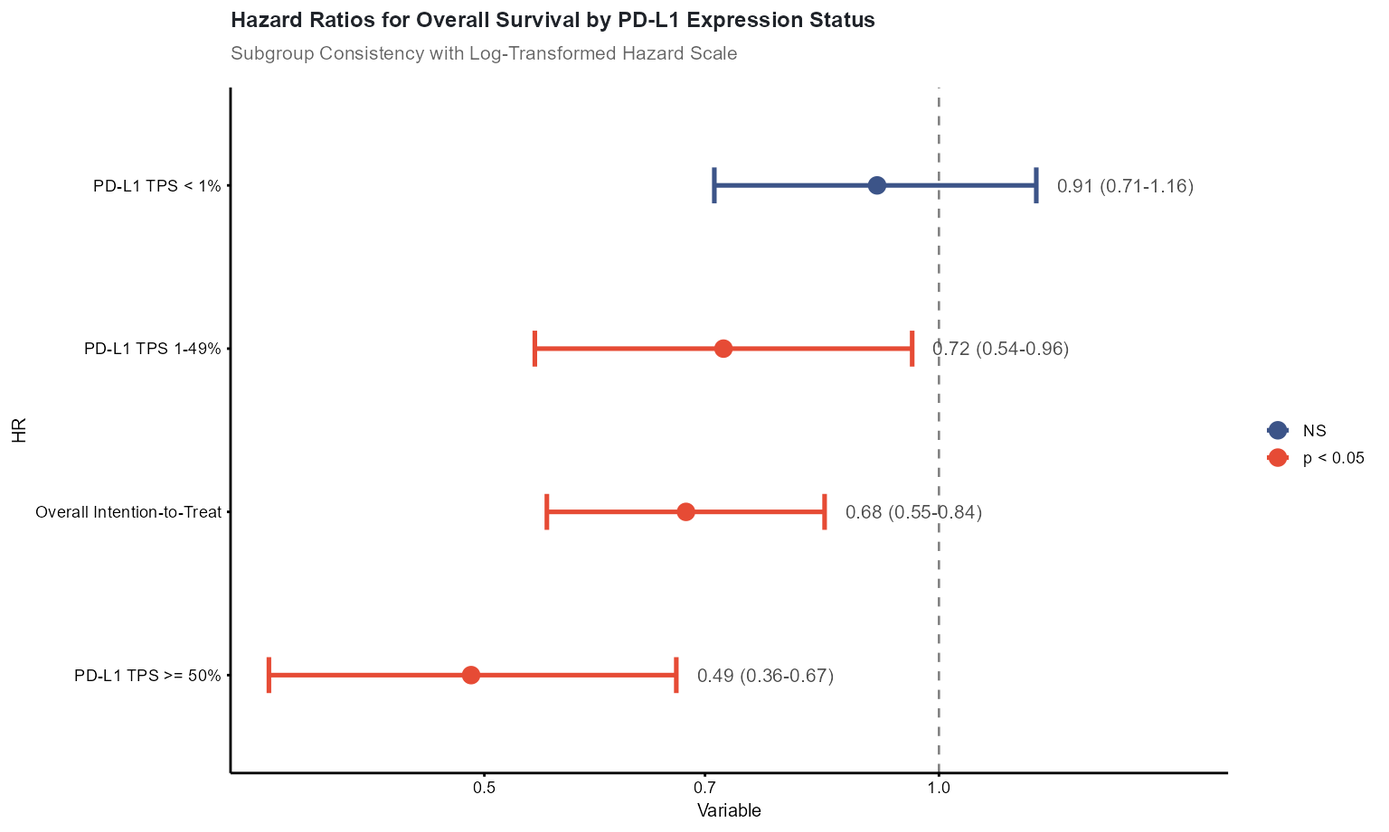
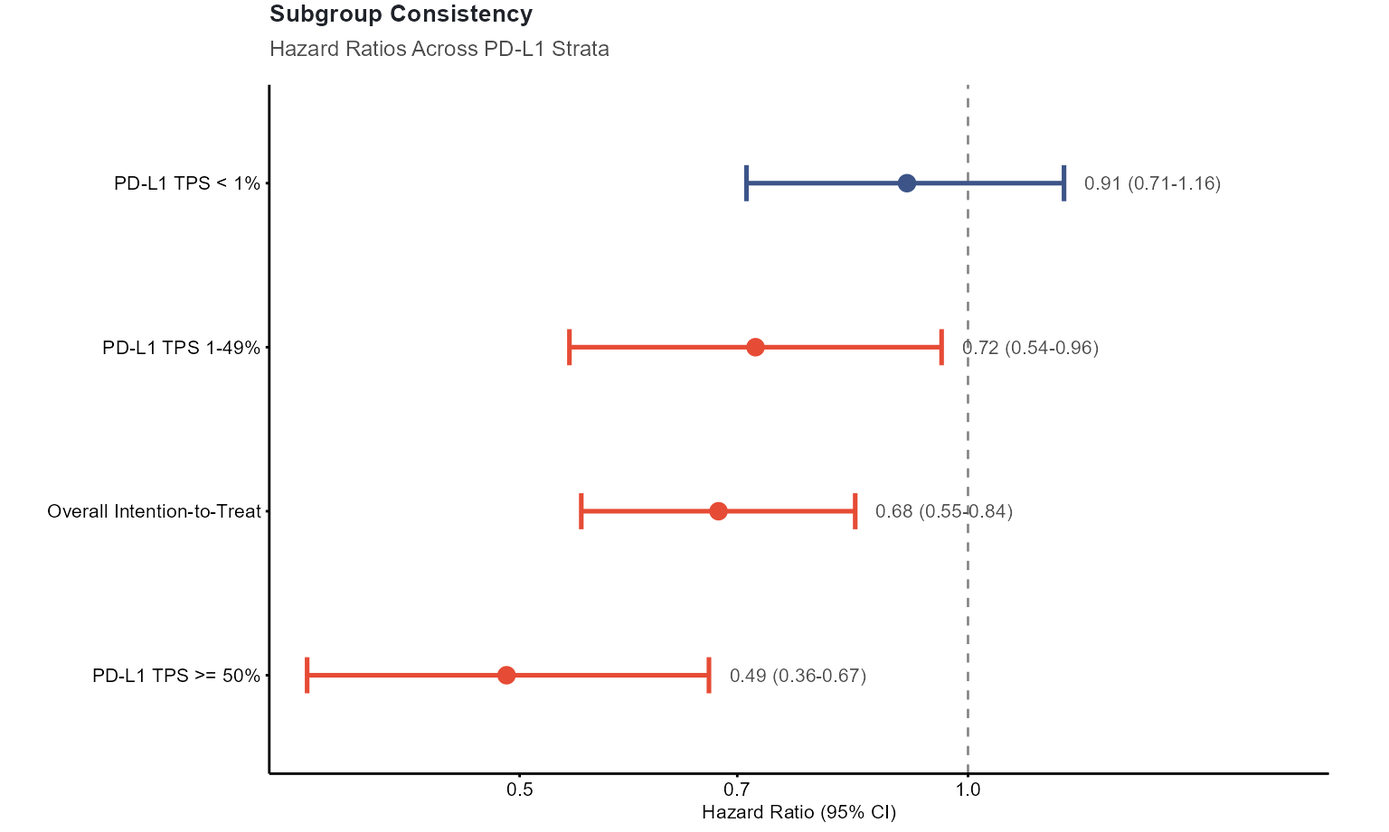
Encapsulate KM risk table and refine forest axis defaults for idiomatic patchwork composites

diff --git a/docs/articles/case-study-cancer-immunotherapy.html b/docs/articles/case-study-cancer-immunotherapy.html
@@ -129,9 +129,8 @@ landmark survival rates at 180 and 365 days:</p>
 <span>    milestones  <span class="op">=</span> <span class="fu"><a href="https://rdrr.io/r/base/c.html" class="external-link">c</a></span><span class="op">(</span><span class="fl">180</span>, <span class="fl">365</span><span class="op">)</span></span>
 <span>  <span class="op">)</span>,</span>
 <span>  palette  <span class="op">=</span> <span class="st">"nature"</span>,</span>
-<span>  title    <span class="op">=</span> <span class="st">"Overall Survival: Immunotherapy Arm vs Control"</span>,</span>
-<span>  subtitle <span class="op">=</span> <span class="st">"Landmark Milestones at 6 Months and 1 Year with Aligned Numbers-at-Risk"</span>,</span>
-<span>  xlab     <span class="op">=</span> <span class="st">"Time on Study (days)"</span>,</span>
+<span>  title    <span class="op">=</span> <span class="st">"Overall Survival"</span>,</span>
+<span>  subtitle <span class="op">=</span> <span class="st">"Landmark Milestones at 6 &amp; 12 Months"</span>,</span>
 <span>  ylab     <span class="op">=</span> <span class="st">"Survival Probability"</span></span>
 <span><span class="op">)</span></span>
 <span><span class="va">p_km</span></span></code></pre></div>
@@ -156,7 +155,7 @@ Proportion Score:
 <span>  P        <span class="op">=</span> <span class="fu"><a href="https://rdrr.io/r/base/c.html" class="external-link">c</a></span><span class="op">(</span><span class="fl">0.0004</span>, <span class="fl">0.0001</span>, <span class="fl">0.024</span>, <span class="fl">0.420</span><span class="op">)</span></span>
 <span><span class="op">)</span></span>
 <span></span>
-<span><span class="fu"><a href="../reference/clitheme.html">clitheme</a></span><span class="op">(</span><span class="st">"science"</span><span class="op">)</span></span>
+<span><span class="fu"><a href="../reference/clitheme.html">clitheme</a></span><span class="op">(</span><span class="st">"nature"</span><span class="op">)</span></span>
 <span></span>
 <span><span class="va">p_forest</span> <span class="op">&lt;-</span> <span class="fu"><a href="../reference/cliplot.html">cliplot</a></span><span class="op">(</span></span>
 <span>  <span class="va">HR</span> <span class="op">~</span> <span class="va">Variable</span>,</span>
@@ -168,9 +167,10 @@ Proportion Score:
 <span>    stripe      <span class="op">=</span> <span class="cn">TRUE</span>,</span>
 <span>    show_values <span class="op">=</span> <span class="cn">TRUE</span></span>
 <span>  <span class="op">)</span>,</span>
-<span>  title    <span class="op">=</span> <span class="st">"Hazard Ratios for Overall Survival by PD-L1 Expression Status"</span>,</span>
-<span>  subtitle <span class="op">=</span> <span class="st">"Subgroup Consistency with Log-Transformed Hazard Scale"</span></span>
-<span><span class="op">)</span></span>
+<span>  title    <span class="op">=</span> <span class="st">"Subgroup Consistency"</span>,</span>
+<span>  subtitle <span class="op">=</span> <span class="st">"Hazard Ratios Across PD-L1 Strata"</span></span>
+<span><span class="op">)</span> <span class="op">+</span></span>
+<span>  <span class="fu"><a href="https://ggplot2.tidyverse.org/reference/theme.html" class="external-link">theme</a></span><span class="op">(</span>legend.position <span class="op">=</span> <span class="st">"none"</span>, plot.margin <span class="op">=</span> <span class="fu"><a href="https://ggplot2.tidyverse.org/reference/element.html" class="external-link">margin</a></span><span class="op">(</span>t <span class="op">=</span> <span class="fl">2</span>, r <span class="op">=</span> <span class="fl">25</span>, b <span class="op">=</span> <span class="fl">4</span>, l <span class="op">=</span> <span class="fl">10</span>, <span class="st">"pt"</span><span class="op">)</span><span class="op">)</span></span>
 <span><span class="va">p_forest</span></span></code></pre></div>
 <p><img src="case-study-cancer-immunotherapy_files/figure-html/io-forest-1.png" class="r-plt" alt="" width="768" style="display: block; margin: auto;"></p>
 <hr>
@@ -191,7 +191,7 @@ change in target lesion sum of diameters from baseline:</p>
 <span>  Change  <span class="op">=</span> <span class="va">changes</span></span>
 <span><span class="op">)</span></span>
 <span></span>
-<span><span class="fu"><a href="../reference/clitheme.html">clitheme</a></span><span class="op">(</span><span class="st">"broadsheet"</span><span class="op">)</span></span>
+<span><span class="fu"><a href="../reference/clitheme.html">clitheme</a></span><span class="op">(</span><span class="st">"nature"</span><span class="op">)</span></span>
 <span></span>
 <span><span class="va">p_wf</span> <span class="op">&lt;-</span> <span class="fu"><a href="../reference/cliplot.html">cliplot</a></span><span class="op">(</span></span>
 <span>  <span class="va">Change</span> <span class="op">~</span> <span class="va">Patient</span>,</span>
@@ -201,10 +201,22 @@ change in target lesion sum of diameters from baseline:</p>
 <span>    response_thresholds <span class="op">=</span> <span class="fu"><a href="https://rdrr.io/r/base/c.html" class="external-link">c</a></span><span class="op">(</span><span class="st">"PD"</span> <span class="op">=</span> <span class="fl">20</span>, <span class="st">"PR"</span> <span class="op">=</span> <span class="op">-</span><span class="fl">30</span><span class="op">)</span>,</span>
 <span>    bar_width           <span class="op">=</span> <span class="fl">0.72</span></span>
 <span>  <span class="op">)</span>,</span>
-<span>  title    <span class="op">=</span> <span class="st">"Best Percentage Change in Target Lesions (RECIST 1.1)"</span>,</span>
-<span>  subtitle <span class="op">=</span> <span class="st">"Dashed lines mark Progressive Disease (+20%) and Partial Response (-30%)"</span></span>
+<span>  title    <span class="op">=</span> <span class="st">"Tumor Burden Response"</span>,</span>
+<span>  subtitle <span class="op">=</span> <span class="st">"RECIST 1.1 Criteria (PD: +20%, PR: -30%)"</span></span>
 <span><span class="op">)</span> <span class="op">+</span></span>
-<span>  <span class="fu"><a href="https://ggplot2.tidyverse.org/reference/theme.html" class="external-link">theme</a></span><span class="op">(</span>axis.text.x <span class="op">=</span> <span class="fu"><a href="https://ggplot2.tidyverse.org/reference/element.html" class="external-link">element_text</a></span><span class="op">(</span>angle <span class="op">=</span> <span class="fl">45</span>, hjust <span class="op">=</span> <span class="fl">1</span>, size <span class="op">=</span> <span class="fl">6.0</span><span class="op">)</span><span class="op">)</span></span>
+<span>  <span class="fu"><a href="https://ggplot2.tidyverse.org/reference/labs.html" class="external-link">labs</a></span><span class="op">(</span></span>
+<span>    x <span class="op">=</span> <span class="st">"Individual Patients (n = 24, ranked by change)"</span>,</span>
+<span>    y <span class="op">=</span> <span class="st">"Best % Change in Target Lesions"</span></span>
+<span>  <span class="op">)</span> <span class="op">+</span></span>
+<span>  <span class="fu"><a href="https://ggplot2.tidyverse.org/reference/theme.html" class="external-link">theme</a></span><span class="op">(</span></span>
+<span>    axis.text.x     <span class="op">=</span> <span class="fu"><a href="https://ggplot2.tidyverse.org/reference/element.html" class="external-link">element_blank</a></span><span class="op">(</span><span class="op">)</span>,</span>
+<span>    axis.ticks.x    <span class="op">=</span> <span class="fu"><a href="https://ggplot2.tidyverse.org/reference/element.html" class="external-link">element_blank</a></span><span class="op">(</span><span class="op">)</span>,</span>
+<span>    legend.position <span class="op">=</span> <span class="st">"bottom"</span>,</span>
+<span>    legend.title    <span class="op">=</span> <span class="fu"><a href="https://ggplot2.tidyverse.org/reference/element.html" class="external-link">element_text</a></span><span class="op">(</span>size <span class="op">=</span> <span class="fl">7</span>, face <span class="op">=</span> <span class="st">"bold"</span><span class="op">)</span>,</span>
+<span>    legend.text     <span class="op">=</span> <span class="fu"><a href="https://ggplot2.tidyverse.org/reference/element.html" class="external-link">element_text</a></span><span class="op">(</span>size <span class="op">=</span> <span class="fl">6.5</span><span class="op">)</span>,</span>
+<span>    legend.key.size <span class="op">=</span> <span class="fu"><a href="https://rdrr.io/r/grid/unit.html" class="external-link">unit</a></span><span class="op">(</span><span class="fl">3</span>, <span class="st">"mm"</span><span class="op">)</span>,</span>
+<span>    plot.margin     <span class="op">=</span> <span class="fu"><a href="https://ggplot2.tidyverse.org/reference/element.html" class="external-link">margin</a></span><span class="op">(</span>t <span class="op">=</span> <span class="fl">6</span>, r <span class="op">=</span> <span class="fl">8</span>, b <span class="op">=</span> <span class="fl">4</span>, l <span class="op">=</span> <span class="fl">4</span>, <span class="st">"pt"</span><span class="op">)</span></span>
+<span>  <span class="op">)</span></span>
 <span></span>
 <span><span class="va">p_wf</span></span></code></pre></div>
 <p><img src="case-study-cancer-immunotherapy_files/figure-html/io-waterfall-1.png" class="r-plt" alt="" width="816" style="display: block; margin: auto;"></p>
@@ -224,7 +236,7 @@ patients actively continuing therapy at data cutoff:</p>
 <span>  Ongoing  <span class="op">=</span> <span class="fu"><a href="https://rdrr.io/r/base/sample.html" class="external-link">sample</a></span><span class="op">(</span><span class="fu"><a href="https://rdrr.io/r/base/c.html" class="external-link">c</a></span><span class="op">(</span><span class="cn">TRUE</span>, <span class="cn">FALSE</span><span class="op">)</span>, <span class="va">n_eval</span>, replace <span class="op">=</span> <span class="cn">TRUE</span>, prob <span class="op">=</span> <span class="fu"><a href="https://rdrr.io/r/base/c.html" class="external-link">c</a></span><span class="op">(</span><span class="fl">0.45</span>, <span class="fl">0.55</span><span class="op">)</span><span class="op">)</span></span>
 <span><span class="op">)</span></span>
 <span></span>
-<span><span class="fu"><a href="../reference/clitheme.html">clitheme</a></span><span class="op">(</span><span class="st">"cell"</span><span class="op">)</span></span>
+<span><span class="fu"><a href="../reference/clitheme.html">clitheme</a></span><span class="op">(</span><span class="st">"nature"</span><span class="op">)</span></span>
 <span></span>
 <span><span class="va">p_swim</span> <span class="op">&lt;-</span> <span class="fu"><a href="../reference/cliplot.html">cliplot</a></span><span class="op">(</span></span>
 <span>  <span class="va">Duration</span> <span class="op">~</span> <span class="va">Patient</span>,</span>
@@ -232,14 +244,22 @@ patients actively continuing therapy at data cutoff:</p>
 <span>  type <span class="op">=</span> <span class="fu"><a href="../reference/type_swimmer.html">type_swimmer</a></span><span class="op">(</span></span>
 <span>    bar_fill      <span class="op">=</span> <span class="st">"BestResp"</span>,</span>
 <span>    ongoing       <span class="op">=</span> <span class="st">"Ongoing"</span>,</span>
-<span>    bar_linewidth <span class="op">=</span> <span class="fl">2.8</span></span>
+<span>    bar_linewidth <span class="op">=</span> <span class="fl">2.6</span></span>
 <span>  <span class="op">)</span>,</span>
 <span>  bar_palette <span class="op">=</span> <span class="st">"jama"</span>,</span>
-<span>  title       <span class="op">=</span> <span class="st">"Treatment Duration and Ongoing Response Kinetics"</span>,</span>
-<span>  subtitle    <span class="op">=</span> <span class="st">"Arrows denote active treatment at database lock"</span>,</span>
+<span>  title       <span class="op">=</span> <span class="st">"Treatment Duration"</span>,</span>
+<span>  subtitle    <span class="op">=</span> <span class="st">"Ongoing Response at Database Cutoff"</span>,</span>
 <span>  ylab        <span class="op">=</span> <span class="st">"Months from Enrollment"</span></span>
 <span><span class="op">)</span> <span class="op">+</span></span>
-<span>  <span class="fu"><a href="https://ggplot2.tidyverse.org/reference/theme.html" class="external-link">theme</a></span><span class="op">(</span>axis.text.y <span class="op">=</span> <span class="fu"><a href="https://ggplot2.tidyverse.org/reference/element.html" class="external-link">element_text</a></span><span class="op">(</span>size <span class="op">=</span> <span class="fl">5.5</span><span class="op">)</span><span class="op">)</span></span>
+<span>  <span class="fu"><a href="https://ggplot2.tidyverse.org/reference/labs.html" class="external-link">labs</a></span><span class="op">(</span>x <span class="op">=</span> <span class="st">"Time on Study (months)"</span>, y <span class="op">=</span> <span class="st">"Patients (n = 24)"</span><span class="op">)</span> <span class="op">+</span></span>
+<span>  <span class="fu"><a href="https://ggplot2.tidyverse.org/reference/theme.html" class="external-link">theme</a></span><span class="op">(</span></span>
+<span>    axis.text.y     <span class="op">=</span> <span class="fu"><a href="https://ggplot2.tidyverse.org/reference/element.html" class="external-link">element_text</a></span><span class="op">(</span>size <span class="op">=</span> <span class="fl">5.2</span><span class="op">)</span>,</span>
+<span>    legend.position <span class="op">=</span> <span class="st">"bottom"</span>,</span>
+<span>    legend.title    <span class="op">=</span> <span class="fu"><a href="https://ggplot2.tidyverse.org/reference/element.html" class="external-link">element_text</a></span><span class="op">(</span>size <span class="op">=</span> <span class="fl">7</span>, face <span class="op">=</span> <span class="st">"bold"</span><span class="op">)</span>,</span>
+<span>    legend.text     <span class="op">=</span> <span class="fu"><a href="https://ggplot2.tidyverse.org/reference/element.html" class="external-link">element_text</a></span><span class="op">(</span>size <span class="op">=</span> <span class="fl">6.5</span><span class="op">)</span>,</span>
+<span>    legend.key.size <span class="op">=</span> <span class="fu"><a href="https://rdrr.io/r/grid/unit.html" class="external-link">unit</a></span><span class="op">(</span><span class="fl">3</span>, <span class="st">"mm"</span><span class="op">)</span>,</span>
+<span>    plot.margin     <span class="op">=</span> <span class="fu"><a href="https://ggplot2.tidyverse.org/reference/element.html" class="external-link">margin</a></span><span class="op">(</span>t <span class="op">=</span> <span class="fl">6</span>, r <span class="op">=</span> <span class="fl">8</span>, b <span class="op">=</span> <span class="fl">4</span>, l <span class="op">=</span> <span class="fl">4</span>, <span class="st">"pt"</span><span class="op">)</span></span>
+<span>  <span class="op">)</span></span>
 <span></span>
 <span><span class="va">p_swim</span></span></code></pre></div>
 <p><img src="case-study-cancer-immunotherapy_files/figure-html/io-swimmer-1.png" class="r-plt" alt="" width="816" style="display: block; margin: auto;"></p>
@@ -251,118 +271,14 @@ patients actively continuing therapy at data cutoff:</p>
 <p>We assemble all four endpoint figures into a publication composite
 using <code>patchwork</code>:</p>
 <div class="sourceCode" id="cb6"><pre class="downlit sourceCode r">
-<code class="sourceCode R"><span><span class="co"># Fine-tune panel components for multi-panel publication grid</span></span>
-<span><span class="va">p_km_plot</span> <span class="op">&lt;-</span> <span class="va">p_km</span><span class="op">[[</span><span class="fl">1</span><span class="op">]</span><span class="op">]</span> <span class="op">+</span></span>
-<span>  <span class="fu"><a href="https://ggplot2.tidyverse.org/reference/labs.html" class="external-link">labs</a></span><span class="op">(</span></span>
-<span>    title    <span class="op">=</span> <span class="st">"Overall Survival"</span>,</span>
-<span>    subtitle <span class="op">=</span> <span class="st">"Landmark Milestones at 6 &amp; 12 Months"</span>,</span>
-<span>    x        <span class="op">=</span> <span class="cn">NULL</span></span>
-<span>  <span class="op">)</span> <span class="op">+</span></span>
-<span>  <span class="fu"><a href="https://ggplot2.tidyverse.org/reference/theme.html" class="external-link">theme</a></span><span class="op">(</span></span>
-<span>    plot.title        <span class="op">=</span> <span class="fu"><a href="https://ggplot2.tidyverse.org/reference/element.html" class="external-link">element_text</a></span><span class="op">(</span>size <span class="op">=</span> <span class="fl">8.5</span>, face <span class="op">=</span> <span class="st">"bold"</span><span class="op">)</span>,</span>
-<span>    plot.subtitle     <span class="op">=</span> <span class="fu"><a href="https://ggplot2.tidyverse.org/reference/element.html" class="external-link">element_text</a></span><span class="op">(</span>size <span class="op">=</span> <span class="fl">7.0</span>, color <span class="op">=</span> <span class="st">"grey30"</span><span class="op">)</span>,</span>
-<span>    axis.title        <span class="op">=</span> <span class="fu"><a href="https://ggplot2.tidyverse.org/reference/element.html" class="external-link">element_text</a></span><span class="op">(</span>size <span class="op">=</span> <span class="fl">7.5</span><span class="op">)</span>,</span>
-<span>    axis.text         <span class="op">=</span> <span class="fu"><a href="https://ggplot2.tidyverse.org/reference/element.html" class="external-link">element_text</a></span><span class="op">(</span>size <span class="op">=</span> <span class="fl">6.5</span><span class="op">)</span>,</span>
-<span>    legend.position   <span class="op">=</span> <span class="fu"><a href="https://rdrr.io/r/base/c.html" class="external-link">c</a></span><span class="op">(</span><span class="fl">0.85</span>, <span class="fl">0.82</span><span class="op">)</span>,</span>
-<span>    legend.background <span class="op">=</span> <span class="fu"><a href="https://ggplot2.tidyverse.org/reference/element.html" class="external-link">element_blank</a></span><span class="op">(</span><span class="op">)</span>,</span>
-<span>    legend.title      <span class="op">=</span> <span class="fu"><a href="https://ggplot2.tidyverse.org/reference/element.html" class="external-link">element_blank</a></span><span class="op">(</span><span class="op">)</span>,</span>
-<span>    legend.text       <span class="op">=</span> <span class="fu"><a href="https://ggplot2.tidyverse.org/reference/element.html" class="external-link">element_text</a></span><span class="op">(</span>size <span class="op">=</span> <span class="fl">6.5</span><span class="op">)</span>,</span>
-<span>    axis.text.x       <span class="op">=</span> <span class="fu"><a href="https://ggplot2.tidyverse.org/reference/element.html" class="external-link">element_blank</a></span><span class="op">(</span><span class="op">)</span>,</span>
-<span>    plot.margin       <span class="op">=</span> <span class="fu"><a href="https://ggplot2.tidyverse.org/reference/element.html" class="external-link">margin</a></span><span class="op">(</span>t <span class="op">=</span> <span class="fl">2</span>, r <span class="op">=</span> <span class="fl">12</span>, b <span class="op">=</span> <span class="fl">0</span>, l <span class="op">=</span> <span class="fl">5</span>, <span class="st">"pt"</span><span class="op">)</span></span>
-<span>  <span class="op">)</span></span>
+<code class="sourceCode R"><span><span class="kw"><a href="https://rdrr.io/r/base/library.html" class="external-link">library</a></span><span class="op">(</span><span class="va"><a href="https://patchwork.data-imaginist.com" class="external-link">patchwork</a></span><span class="op">)</span></span>
 <span></span>
-<span><span class="va">p_km_table</span> <span class="op">&lt;-</span> <span class="va">p_km</span><span class="op">[[</span><span class="fl">2</span><span class="op">]</span><span class="op">]</span> <span class="op">+</span></span>
-<span>  <span class="fu"><a href="https://ggplot2.tidyverse.org/reference/labs.html" class="external-link">labs</a></span><span class="op">(</span>title <span class="op">=</span> <span class="cn">NULL</span>, subtitle <span class="op">=</span> <span class="cn">NULL</span>, x <span class="op">=</span> <span class="st">"Time on Study (days)"</span>, y <span class="op">=</span> <span class="cn">NULL</span><span class="op">)</span> <span class="op">+</span></span>
-<span>  <span class="fu"><a href="https://ggplot2.tidyverse.org/reference/theme.html" class="external-link">theme</a></span><span class="op">(</span></span>
-<span>    plot.title    <span class="op">=</span> <span class="fu"><a href="https://ggplot2.tidyverse.org/reference/element.html" class="external-link">element_blank</a></span><span class="op">(</span><span class="op">)</span>,</span>
-<span>    plot.subtitle <span class="op">=</span> <span class="fu"><a href="https://ggplot2.tidyverse.org/reference/element.html" class="external-link">element_blank</a></span><span class="op">(</span><span class="op">)</span>,</span>
-<span>    axis.title.y  <span class="op">=</span> <span class="fu"><a href="https://ggplot2.tidyverse.org/reference/element.html" class="external-link">element_blank</a></span><span class="op">(</span><span class="op">)</span>,</span>
-<span>    axis.text.y   <span class="op">=</span> <span class="fu"><a href="https://ggplot2.tidyverse.org/reference/element.html" class="external-link">element_text</a></span><span class="op">(</span>size <span class="op">=</span> <span class="fl">6.5</span>, face <span class="op">=</span> <span class="st">"bold"</span><span class="op">)</span>,</span>
-<span>    axis.text.x   <span class="op">=</span> <span class="fu"><a href="https://ggplot2.tidyverse.org/reference/element.html" class="external-link">element_text</a></span><span class="op">(</span>size <span class="op">=</span> <span class="fl">6.5</span><span class="op">)</span>,</span>
-<span>    axis.title.x  <span class="op">=</span> <span class="fu"><a href="https://ggplot2.tidyverse.org/reference/element.html" class="external-link">element_text</a></span><span class="op">(</span>size <span class="op">=</span> <span class="fl">7.0</span><span class="op">)</span>,</span>
-<span>    plot.margin   <span class="op">=</span> <span class="fu"><a href="https://ggplot2.tidyverse.org/reference/element.html" class="external-link">margin</a></span><span class="op">(</span>t <span class="op">=</span> <span class="op">-</span><span class="fl">2</span>, r <span class="op">=</span> <span class="fl">12</span>, b <span class="op">=</span> <span class="fl">4</span>, l <span class="op">=</span> <span class="fl">5</span>, <span class="st">"pt"</span><span class="op">)</span></span>
-<span>  <span class="op">)</span></span>
-<span></span>
-<span><span class="va">p_forest_comp</span> <span class="op">&lt;-</span> <span class="va">p_forest</span> <span class="op">+</span></span>
-<span>  <span class="fu"><a href="https://ggplot2.tidyverse.org/reference/scale_continuous.html" class="external-link">scale_x_log10</a></span><span class="op">(</span>expand <span class="op">=</span> <span class="fu"><a href="https://ggplot2.tidyverse.org/reference/expansion.html" class="external-link">expansion</a></span><span class="op">(</span>mult <span class="op">=</span> <span class="fu"><a href="https://rdrr.io/r/base/c.html" class="external-link">c</a></span><span class="op">(</span><span class="fl">0.05</span>, <span class="fl">0.35</span><span class="op">)</span><span class="op">)</span><span class="op">)</span> <span class="op">+</span></span>
-<span>  <span class="fu"><a href="https://ggplot2.tidyverse.org/reference/coord_cartesian.html" class="external-link">coord_cartesian</a></span><span class="op">(</span>clip <span class="op">=</span> <span class="st">"off"</span><span class="op">)</span> <span class="op">+</span></span>
-<span>  <span class="fu"><a href="https://ggplot2.tidyverse.org/reference/labs.html" class="external-link">labs</a></span><span class="op">(</span></span>
-<span>    title    <span class="op">=</span> <span class="st">"Subgroup Consistency"</span>,</span>
-<span>    subtitle <span class="op">=</span> <span class="st">"Hazard Ratios (95% CI) Across PD-L1 Strata"</span>,</span>
-<span>    x        <span class="op">=</span> <span class="st">"Hazard Ratio (95% CI)"</span>,</span>
-<span>    y        <span class="op">=</span> <span class="cn">NULL</span></span>
-<span>  <span class="op">)</span> <span class="op">+</span></span>
-<span>  <span class="fu"><a href="https://ggplot2.tidyverse.org/reference/theme.html" class="external-link">theme</a></span><span class="op">(</span></span>
-<span>    plot.title      <span class="op">=</span> <span class="fu"><a href="https://ggplot2.tidyverse.org/reference/element.html" class="external-link">element_text</a></span><span class="op">(</span>size <span class="op">=</span> <span class="fl">8.5</span>, face <span class="op">=</span> <span class="st">"bold"</span><span class="op">)</span>,</span>
-<span>    plot.subtitle   <span class="op">=</span> <span class="fu"><a href="https://ggplot2.tidyverse.org/reference/element.html" class="external-link">element_text</a></span><span class="op">(</span>size <span class="op">=</span> <span class="fl">7.0</span>, color <span class="op">=</span> <span class="st">"grey30"</span><span class="op">)</span>,</span>
-<span>    axis.title.y    <span class="op">=</span> <span class="fu"><a href="https://ggplot2.tidyverse.org/reference/element.html" class="external-link">element_blank</a></span><span class="op">(</span><span class="op">)</span>,</span>
-<span>    axis.text.y     <span class="op">=</span> <span class="fu"><a href="https://ggplot2.tidyverse.org/reference/element.html" class="external-link">element_text</a></span><span class="op">(</span>size <span class="op">=</span> <span class="fl">7.0</span>, face <span class="op">=</span> <span class="st">"bold"</span><span class="op">)</span>,</span>
-<span>    axis.text.x     <span class="op">=</span> <span class="fu"><a href="https://ggplot2.tidyverse.org/reference/element.html" class="external-link">element_text</a></span><span class="op">(</span>size <span class="op">=</span> <span class="fl">6.5</span><span class="op">)</span>,</span>
-<span>    axis.title.x    <span class="op">=</span> <span class="fu"><a href="https://ggplot2.tidyverse.org/reference/element.html" class="external-link">element_text</a></span><span class="op">(</span>size <span class="op">=</span> <span class="fl">7.5</span><span class="op">)</span>,</span>
-<span>    legend.position <span class="op">=</span> <span class="st">"none"</span>,</span>
-<span>    plot.margin     <span class="op">=</span> <span class="fu"><a href="https://ggplot2.tidyverse.org/reference/element.html" class="external-link">margin</a></span><span class="op">(</span>t <span class="op">=</span> <span class="fl">2</span>, r <span class="op">=</span> <span class="fl">35</span>, b <span class="op">=</span> <span class="fl">4</span>, l <span class="op">=</span> <span class="fl">10</span>, <span class="st">"pt"</span><span class="op">)</span></span>
-<span>  <span class="op">)</span></span>
-<span></span>
-<span><span class="va">p_wf_comp</span> <span class="op">&lt;-</span> <span class="va">p_wf</span> <span class="op">+</span></span>
-<span>  <span class="fu"><a href="https://ggplot2.tidyverse.org/reference/labs.html" class="external-link">labs</a></span><span class="op">(</span></span>
-<span>    title    <span class="op">=</span> <span class="st">"Tumor Burden Response"</span>,</span>
-<span>    subtitle <span class="op">=</span> <span class="st">"RECIST 1.1 Criteria (PD: +20%, PR: -30%)"</span>,</span>
-<span>    x        <span class="op">=</span> <span class="st">"Individual Patients (n = 24, ranked by change)"</span>,</span>
-<span>    y        <span class="op">=</span> <span class="st">"Best % Change in Target Lesions"</span></span>
-<span>  <span class="op">)</span> <span class="op">+</span></span>
-<span>  <span class="fu"><a href="https://ggplot2.tidyverse.org/reference/theme.html" class="external-link">theme</a></span><span class="op">(</span></span>
-<span>    plot.title      <span class="op">=</span> <span class="fu"><a href="https://ggplot2.tidyverse.org/reference/element.html" class="external-link">element_text</a></span><span class="op">(</span>size <span class="op">=</span> <span class="fl">8.5</span>, face <span class="op">=</span> <span class="st">"bold"</span><span class="op">)</span>,</span>
-<span>    plot.subtitle   <span class="op">=</span> <span class="fu"><a href="https://ggplot2.tidyverse.org/reference/element.html" class="external-link">element_text</a></span><span class="op">(</span>size <span class="op">=</span> <span class="fl">7.0</span>, color <span class="op">=</span> <span class="st">"grey30"</span><span class="op">)</span>,</span>
-<span>    axis.text.x     <span class="op">=</span> <span class="fu"><a href="https://ggplot2.tidyverse.org/reference/element.html" class="external-link">element_blank</a></span><span class="op">(</span><span class="op">)</span>,</span>
-<span>    axis.ticks.x    <span class="op">=</span> <span class="fu"><a href="https://ggplot2.tidyverse.org/reference/element.html" class="external-link">element_blank</a></span><span class="op">(</span><span class="op">)</span>,</span>
-<span>    axis.text.y     <span class="op">=</span> <span class="fu"><a href="https://ggplot2.tidyverse.org/reference/element.html" class="external-link">element_text</a></span><span class="op">(</span>size <span class="op">=</span> <span class="fl">6.5</span><span class="op">)</span>,</span>
-<span>    axis.title      <span class="op">=</span> <span class="fu"><a href="https://ggplot2.tidyverse.org/reference/element.html" class="external-link">element_text</a></span><span class="op">(</span>size <span class="op">=</span> <span class="fl">7.5</span><span class="op">)</span>,</span>
-<span>    legend.position <span class="op">=</span> <span class="st">"bottom"</span>,</span>
-<span>    legend.title    <span class="op">=</span> <span class="fu"><a href="https://ggplot2.tidyverse.org/reference/element.html" class="external-link">element_text</a></span><span class="op">(</span>size <span class="op">=</span> <span class="fl">6.5</span>, face <span class="op">=</span> <span class="st">"bold"</span><span class="op">)</span>,</span>
-<span>    legend.text     <span class="op">=</span> <span class="fu"><a href="https://ggplot2.tidyverse.org/reference/element.html" class="external-link">element_text</a></span><span class="op">(</span>size <span class="op">=</span> <span class="fl">6.0</span><span class="op">)</span>,</span>
-<span>    legend.key.size <span class="op">=</span> <span class="fu"><a href="https://rdrr.io/r/grid/unit.html" class="external-link">unit</a></span><span class="op">(</span><span class="fl">3</span>, <span class="st">"mm"</span><span class="op">)</span>,</span>
-<span>    plot.margin     <span class="op">=</span> <span class="fu"><a href="https://ggplot2.tidyverse.org/reference/element.html" class="external-link">margin</a></span><span class="op">(</span>t <span class="op">=</span> <span class="fl">6</span>, r <span class="op">=</span> <span class="fl">12</span>, b <span class="op">=</span> <span class="fl">5</span>, l <span class="op">=</span> <span class="fl">5</span>, <span class="st">"pt"</span><span class="op">)</span></span>
-<span>  <span class="op">)</span></span>
-<span></span>
-<span><span class="va">p_swim_comp</span> <span class="op">&lt;-</span> <span class="va">p_swim</span> <span class="op">+</span></span>
-<span>  <span class="fu"><a href="https://ggplot2.tidyverse.org/reference/labs.html" class="external-link">labs</a></span><span class="op">(</span></span>
-<span>    title    <span class="op">=</span> <span class="st">"Treatment Duration"</span>,</span>
-<span>    subtitle <span class="op">=</span> <span class="st">"Ongoing Response at Database Cutoff"</span>,</span>
-<span>    x        <span class="op">=</span> <span class="st">"Time on Study (months)"</span>,</span>
-<span>    y        <span class="op">=</span> <span class="st">"Patients (n = 24)"</span></span>
-<span>  <span class="op">)</span> <span class="op">+</span></span>
-<span>  <span class="fu"><a href="https://ggplot2.tidyverse.org/reference/theme.html" class="external-link">theme</a></span><span class="op">(</span></span>
-<span>    plot.title      <span class="op">=</span> <span class="fu"><a href="https://ggplot2.tidyverse.org/reference/element.html" class="external-link">element_text</a></span><span class="op">(</span>size <span class="op">=</span> <span class="fl">8.5</span>, face <span class="op">=</span> <span class="st">"bold"</span><span class="op">)</span>,</span>
-<span>    plot.subtitle   <span class="op">=</span> <span class="fu"><a href="https://ggplot2.tidyverse.org/reference/element.html" class="external-link">element_text</a></span><span class="op">(</span>size <span class="op">=</span> <span class="fl">7.0</span>, color <span class="op">=</span> <span class="st">"grey30"</span><span class="op">)</span>,</span>
-<span>    axis.text.y     <span class="op">=</span> <span class="fu"><a href="https://ggplot2.tidyverse.org/reference/element.html" class="external-link">element_text</a></span><span class="op">(</span>size <span class="op">=</span> <span class="fl">5.2</span><span class="op">)</span>,</span>
-<span>    axis.text.x     <span class="op">=</span> <span class="fu"><a href="https://ggplot2.tidyverse.org/reference/element.html" class="external-link">element_text</a></span><span class="op">(</span>size <span class="op">=</span> <span class="fl">6.5</span><span class="op">)</span>,</span>
-<span>    axis.title      <span class="op">=</span> <span class="fu"><a href="https://ggplot2.tidyverse.org/reference/element.html" class="external-link">element_text</a></span><span class="op">(</span>size <span class="op">=</span> <span class="fl">7.5</span><span class="op">)</span>,</span>
-<span>    legend.position <span class="op">=</span> <span class="st">"bottom"</span>,</span>
-<span>    legend.title    <span class="op">=</span> <span class="fu"><a href="https://ggplot2.tidyverse.org/reference/element.html" class="external-link">element_text</a></span><span class="op">(</span>size <span class="op">=</span> <span class="fl">6.5</span>, face <span class="op">=</span> <span class="st">"bold"</span><span class="op">)</span>,</span>
-<span>    legend.text     <span class="op">=</span> <span class="fu"><a href="https://ggplot2.tidyverse.org/reference/element.html" class="external-link">element_text</a></span><span class="op">(</span>size <span class="op">=</span> <span class="fl">6.0</span><span class="op">)</span>,</span>
-<span>    legend.key.size <span class="op">=</span> <span class="fu"><a href="https://rdrr.io/r/grid/unit.html" class="external-link">unit</a></span><span class="op">(</span><span class="fl">3</span>, <span class="st">"mm"</span><span class="op">)</span>,</span>
-<span>    plot.margin     <span class="op">=</span> <span class="fu"><a href="https://ggplot2.tidyverse.org/reference/element.html" class="external-link">margin</a></span><span class="op">(</span>t <span class="op">=</span> <span class="fl">6</span>, r <span class="op">=</span> <span class="fl">12</span>, b <span class="op">=</span> <span class="fl">5</span>, l <span class="op">=</span> <span class="fl">5</span>, <span class="st">"pt"</span><span class="op">)</span></span>
-<span>  <span class="op">)</span></span>
-<span></span>
-<span><span class="co"># 5-slot grid: (a) KM curve, (b) Forest plot, untagged Risk Table, (c) Waterfall, (d) Swimmer</span></span>
-<span><span class="va">design</span> <span class="op">&lt;-</span> <span class="st">"</span></span>
-<span><span class="st">11112222</span></span>
-<span><span class="st">11112222</span></span>
-<span><span class="st">11112222</span></span>
-<span><span class="st">33332222</span></span>
-<span><span class="st">44445555</span></span>
-<span><span class="st">44445555</span></span>
-<span><span class="st">44445555</span></span>
-<span><span class="st">44445555</span></span>
-<span><span class="st">"</span></span>
-<span></span>
-<span><span class="va">p_composite</span> <span class="op">&lt;-</span> <span class="va">p_km_plot</span> <span class="op">+</span> <span class="va">p_forest_comp</span> <span class="op">+</span> <span class="va">p_km_table</span> <span class="op">+</span> <span class="va">p_wf_comp</span> <span class="op">+</span> <span class="va">p_swim_comp</span> <span class="op">+</span></span>
-<span>  <span class="fu"><a href="https://patchwork.data-imaginist.com/reference/plot_layout.html" class="external-link">plot_layout</a></span><span class="op">(</span>design <span class="op">=</span> <span class="va">design</span><span class="op">)</span> <span class="op">+</span></span>
+<span><span class="va">p_composite</span> <span class="op">&lt;-</span> <span class="op">(</span><span class="va">p_km</span> <span class="op">|</span> <span class="va">p_forest</span><span class="op">)</span> <span class="op">/</span> <span class="op">(</span><span class="va">p_wf</span> <span class="op">|</span> <span class="va">p_swim</span><span class="op">)</span> <span class="op">+</span></span>
+<span>  <span class="fu"><a href="https://patchwork.data-imaginist.com/reference/plot_layout.html" class="external-link">plot_layout</a></span><span class="op">(</span>heights <span class="op">=</span> <span class="fu"><a href="https://rdrr.io/r/base/c.html" class="external-link">c</a></span><span class="op">(</span><span class="fl">1.0</span>, <span class="fl">1.1</span><span class="op">)</span><span class="op">)</span> <span class="op">+</span></span>
 <span>  <span class="fu"><a href="https://patchwork.data-imaginist.com/reference/plot_annotation.html" class="external-link">plot_annotation</a></span><span class="op">(</span></span>
-<span>    tag_levels <span class="op">=</span> <span class="fu"><a href="https://rdrr.io/r/base/list.html" class="external-link">list</a></span><span class="op">(</span><span class="fu"><a href="https://rdrr.io/r/base/c.html" class="external-link">c</a></span><span class="op">(</span><span class="st">"(a)"</span>, <span class="st">"(b)"</span>, <span class="st">""</span>, <span class="st">"(c)"</span>, <span class="st">"(d)"</span><span class="op">)</span><span class="op">)</span>,</span>
-<span>    theme <span class="op">=</span> <span class="fu"><a href="https://ggplot2.tidyverse.org/reference/theme.html" class="external-link">theme</a></span><span class="op">(</span></span>
-<span>      plot.tag <span class="op">=</span> <span class="fu"><a href="https://ggplot2.tidyverse.org/reference/element.html" class="external-link">element_text</a></span><span class="op">(</span>size <span class="op">=</span> <span class="fl">9.5</span>, face <span class="op">=</span> <span class="st">"bold"</span><span class="op">)</span></span>
-<span>    <span class="op">)</span></span>
+<span>    tag_levels <span class="op">=</span> <span class="st">"a"</span>,</span>
+<span>    tag_prefix <span class="op">=</span> <span class="st">"("</span>,</span>
+<span>    tag_suffix <span class="op">=</span> <span class="st">")"</span></span>
 <span>  <span class="op">)</span></span>
 <span></span>
 <span><span class="va">p_composite</span></span></code></pre></div>
